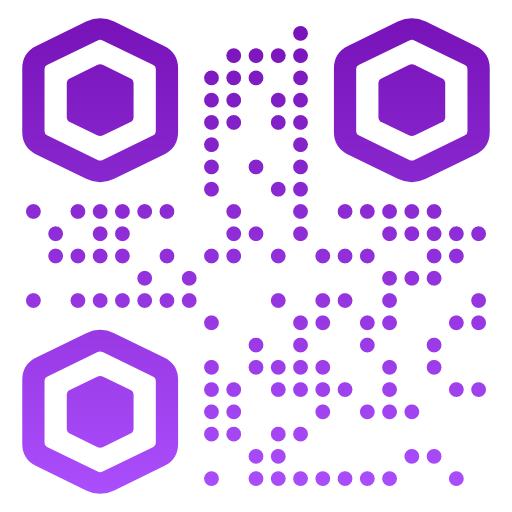
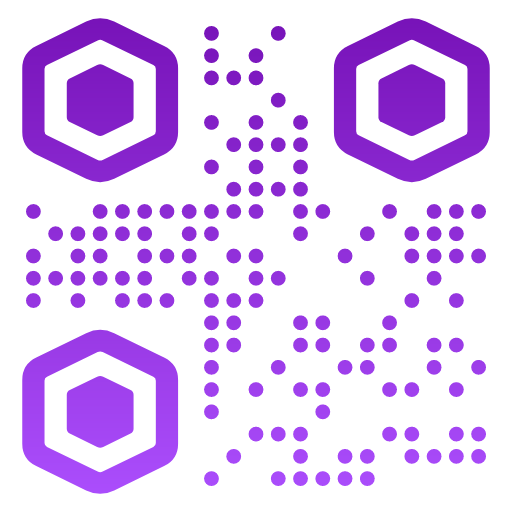
r0: Update links and QR codes to hosted threejs demos

diff --git a/examples/threejs/README.md b/examples/threejs/README.md
@@ -10,5 +10,5 @@ Example 8th Wall Web projects using three.js:
 Tap to place | 8i hologram | Flyer
 :----------: | :---------: | :---:
 ![tapplace-threejs-screenshot](../../images/screenshot-tap.jpg) | ![8i-threejs-screenshot](../../images/screenshot-8i.jpg) | ![threejs-flyer-screenshot](../../images/screenshot-flyer.jpg)
-[Try Demo (mobile)](https://apps.8thwall.com/8thWall/threejs_placeground) | [Try Demo (mobile)](https://apps.8thwall.com/8thWall/threejs_8i) |
-or scan on phone:<br> ![QR1](../../images/qr-threejs-placeground.png) | or scan on phone:<br> ![QR2](../../images/qr-threejs-8i.png) | 
+[Try Demo (mobile)](https://8th.io/x87d7) | [Try Demo (mobile)](https://apps.8thwall.com/8thWall/threejs_8i) | [Try Demo (mobile)](https://8th.io/d6teq)
+or scan on phone:<br> ![QR1](../../images/qr-threejs-placeground.png) | or scan on phone:<br> ![QR2](../../images/qr-threejs-8i.png) | or scan on phone:<br> ![QR3](../../images/qr-threejs-flyer.png)

diff --git a/examples/README.md b/examples/README.md
@@ -60,5 +60,5 @@ or scan on phone:<br> ![QR1](../images/qr-babylonjs-placeground.png)
 Tap to place | 8i hologram | Flyer
 :----------: | :---------: | :---:
 ![tapplace-threejs-screenshot](../images/screenshot-tap.jpg) | ![8i-threejs-screenshot](../images/screenshot-8i.jpg) | ![threejs-flyer-screenshot](../images/screenshot-flyer.jpg)
-[Try Demo (mobile)](https://apps.8thwall.com/8thWall/threejs_placeground) | [Try Demo (mobile)](https://apps.8thwall.com/8thWall/threejs_8i)
-or scan on phone:<br> ![QR1](../images/qr-threejs-placeground.png) | or scan on phone:<br> ![QR2](../images/qr-threejs-8i.png)
+[Try Demo (mobile)](https://8th.io/x87d7) | [Try Demo (mobile)](https://apps.8thwall.com/8thWall/threejs_8i) | [Try Demo (mobile)](https://8th.io/d6teq)
+or scan on phone:<br> ![QR1](../images/qr-threejs-placeground.png) | or scan on phone:<br> ![QR2](../images/qr-threejs-8i.png) | or scan on phone:<br> ![QR3](../images/qr-threejs-flyer.png)

diff --git a/examples/threejs/flyer/README.md b/examples/threejs/flyer/README.md
@@ -6,6 +6,8 @@ This example uses image targets to display information about jellyfish on a flye
 
 ![flyer](./flyer.jpg)
 
+[Try the live demo here](https://8th.io/d6teq)
+
 ## Uploading to Console
 
 To link the image targets to your app key, you will need to upload (and enable autoload) each image to your project in the 8th Wall Console at www.8thwall.com.

diff --git a/examples/threejs/placeground/README.md b/examples/threejs/placeground/README.md
@@ -4,7 +4,7 @@ This interactive example allows the user to grow trees on the ground by tapping.
 
 ![tapplace-threejs-screenshot](../../../images/screenshot-tap.jpg)
 
-[Try the live demo here](https://apps.8thwall.com/8thWall/threejs_placeground)
+[Try the live demo here](https://8th.io/x87d7)
 
 ## Overview
 
